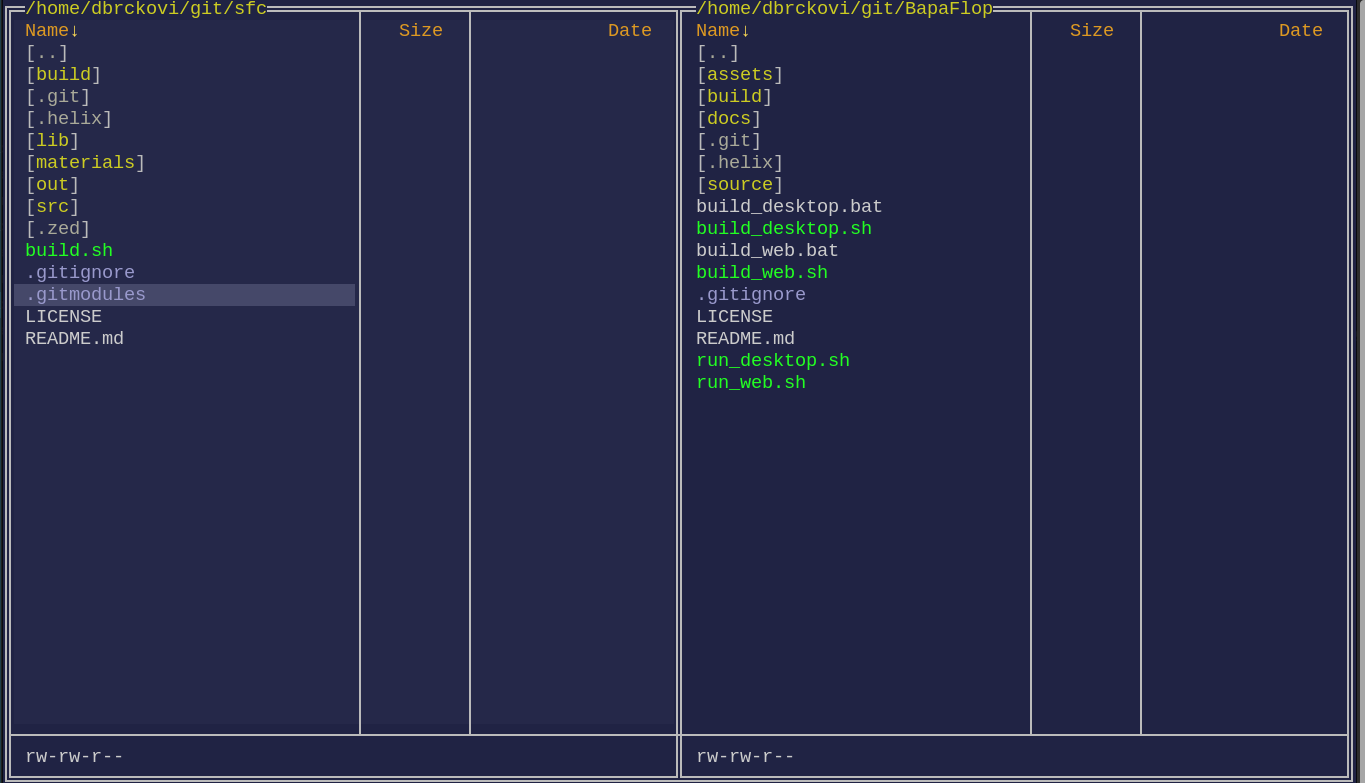
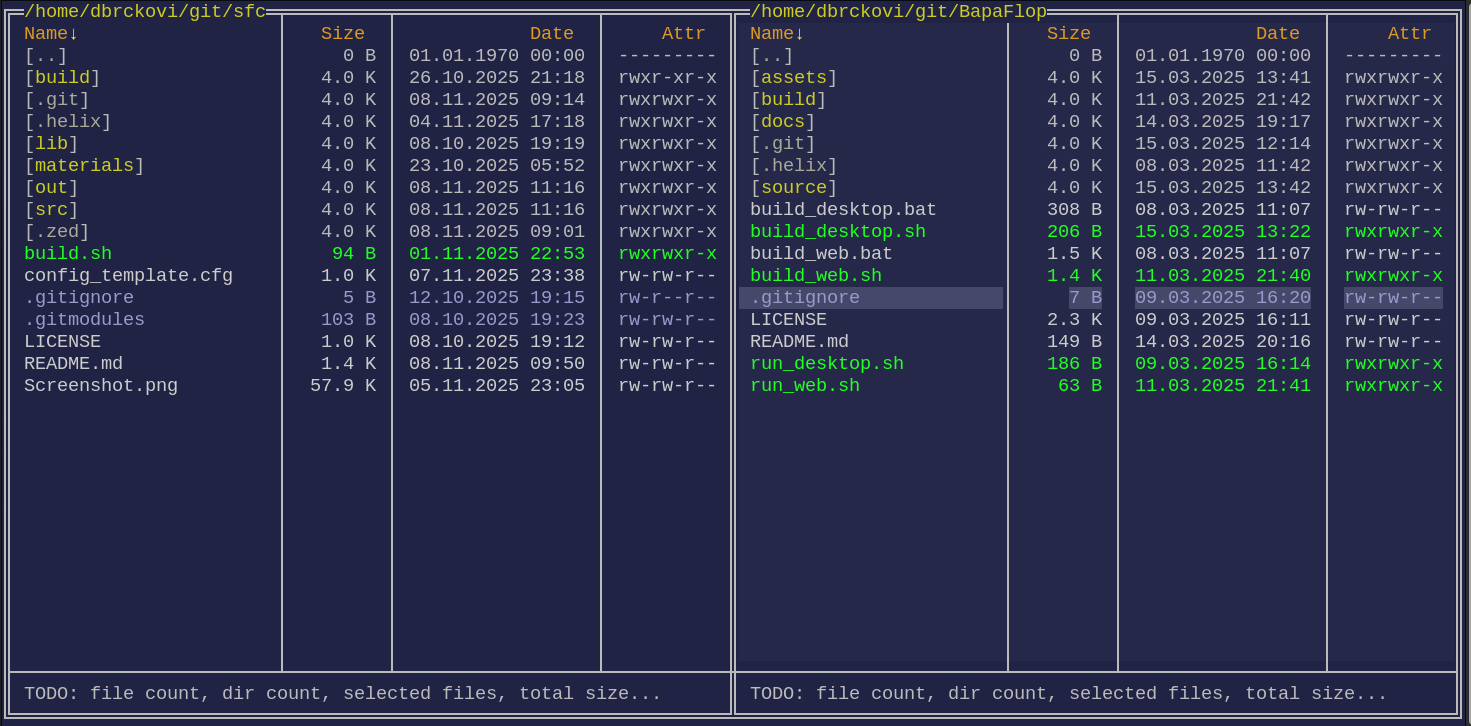
Drawing content of 3 dynamic columns

Changed region(s): [[0.0, 0.0, 1.0, 1.0]]

diff --git a/README.md b/README.md
@@ -6,8 +6,6 @@ Orthodox TUI file manager inspired by Helix editor motions.
 
 # Important TODO:
 
- - [-] check for memory leaks while loading settings
- - [+] make separate allocator for each panel and free it after refresh
  - [-] Make key mapper (load from file, default if not found)
  - [-] Make command sub-system (parser, executor, show results/errors)
  - [-] Make text viewer "popup"
@@ -17,18 +15,14 @@ Orthodox TUI file manager inspired by Helix editor motions.
  - [-] remember "last session" (directories, panels, hidden files etc)
  - [-] file "icons" left of the file/directory
  - [-] color coded file and directory names based on pattern
- - [+] paint executables
  - [+] file attributes
    - [-] draw file attributes with different color for each permission set
    - [-] draw file attributes in octal mode
- - [+] dynamic columns
  - [+] get file attributes from parent directory
  - [-] handle system files
  - [-] handle symbolic links
  - [-] selection
- - [+] crop file and dir names
  - [-] detect if file was cropped, and draw it differently (probably using "icon" column)
- - [+] decide on settings file format and load them
  
 # Cleanup TODO:
 
